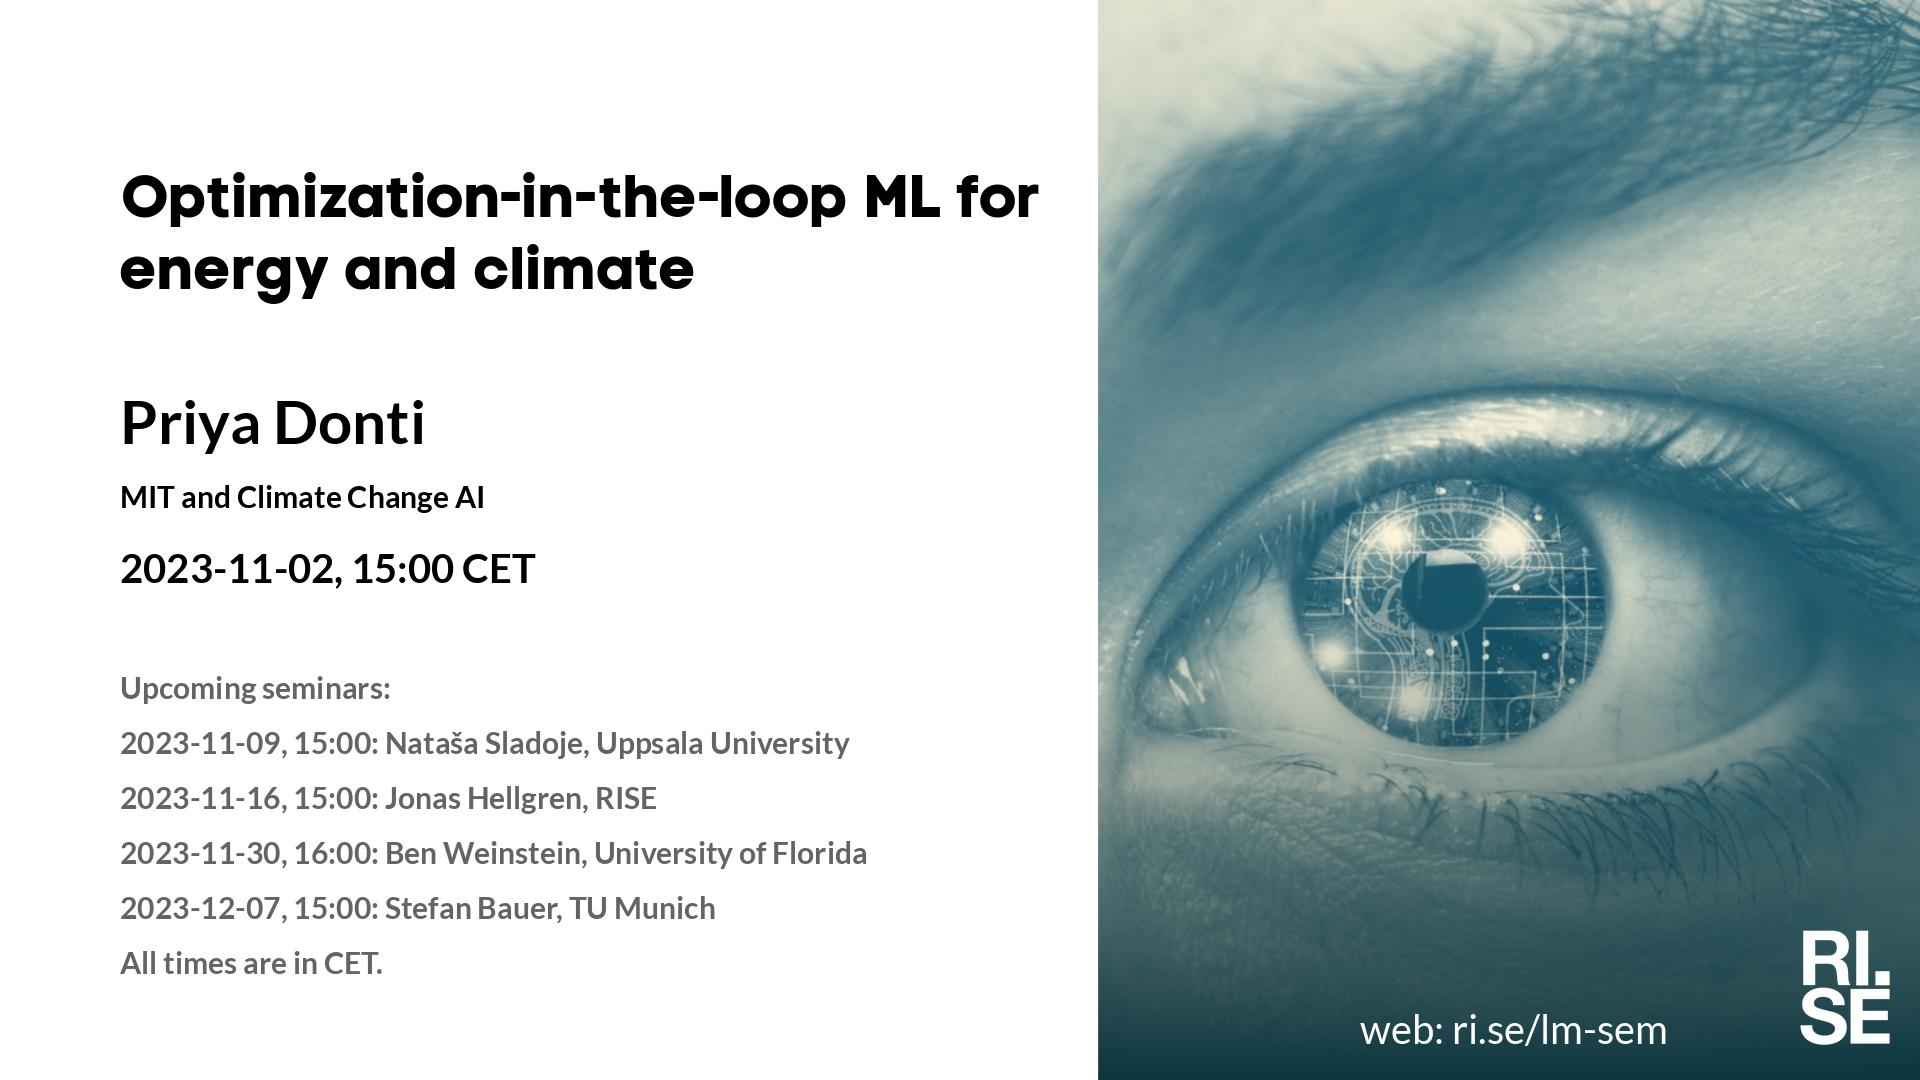
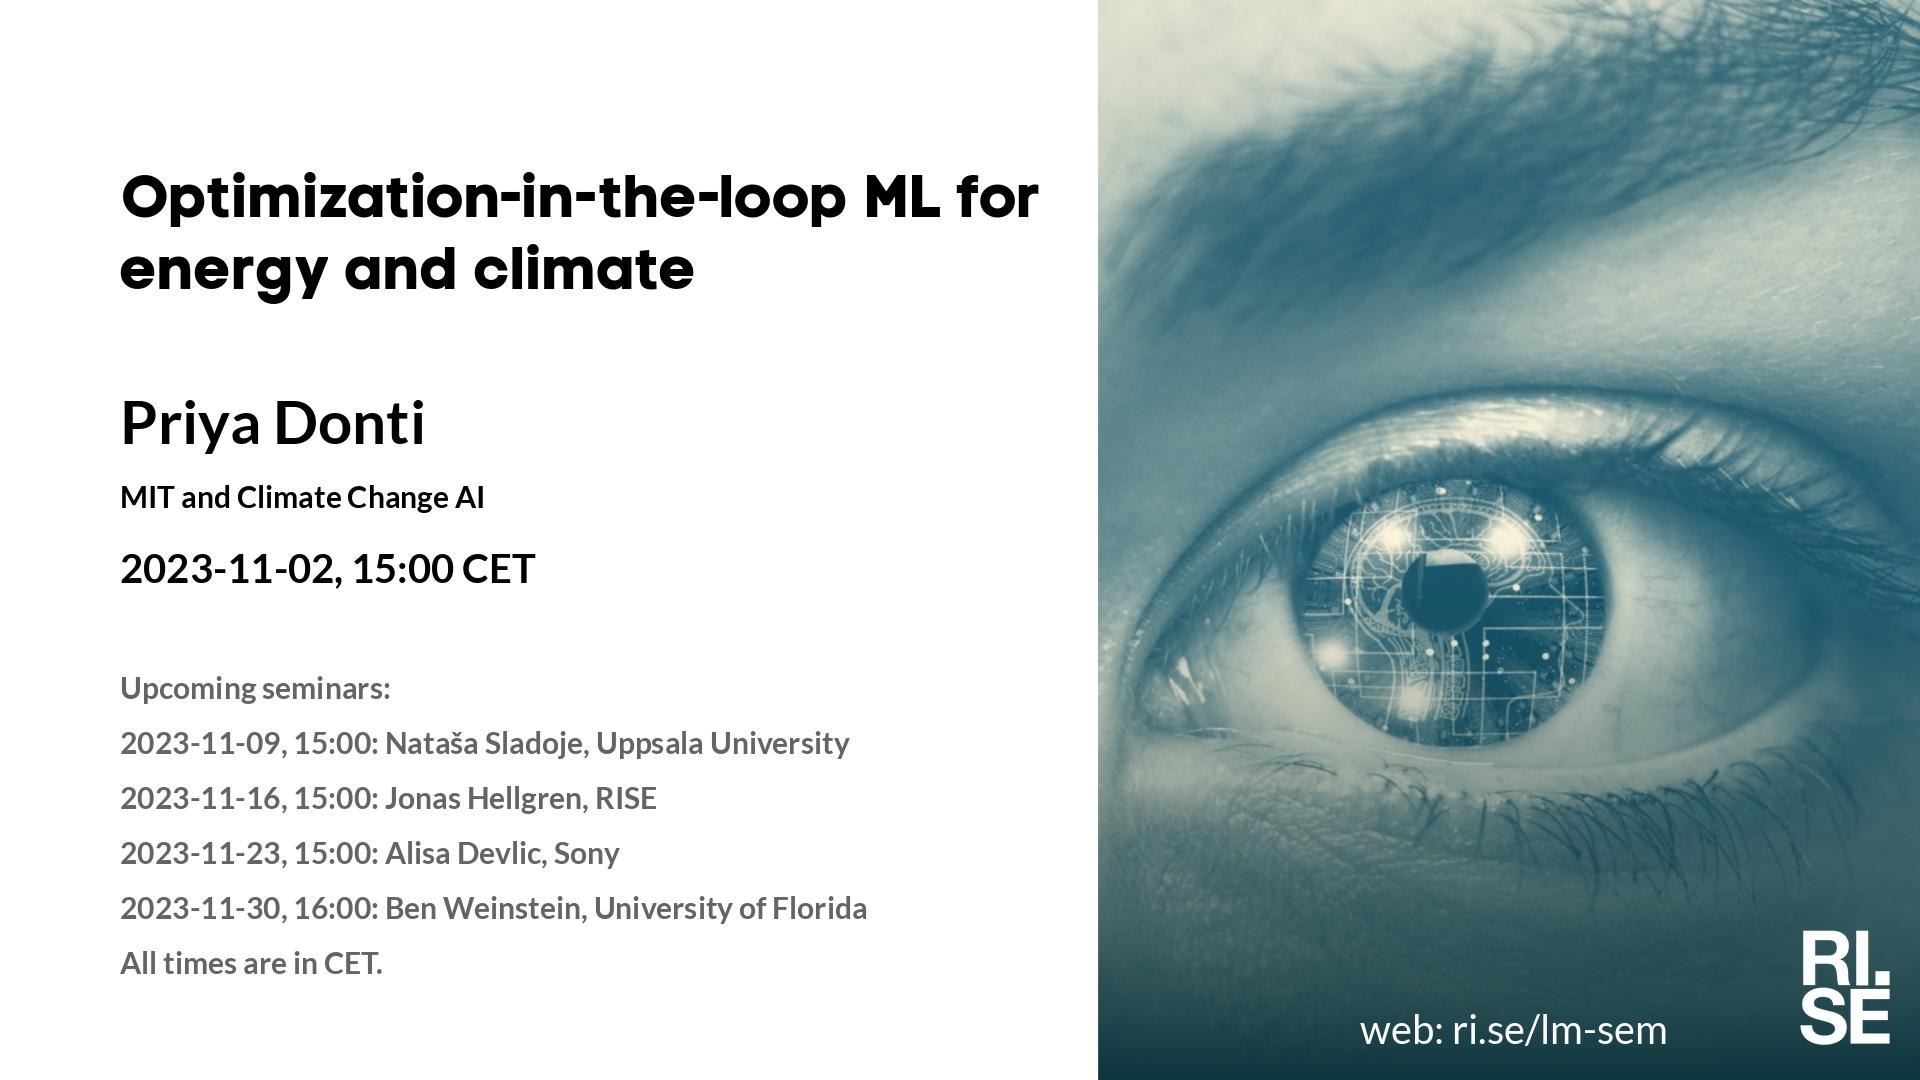
Updated plan on web site.

Changed region(s): [[0.1875, 0.7639, 0.4688, 0.8556], [0.125, 0.825, 0.1562, 0.8556]]

diff --git a/lm/index.md b/lm/index.md
@@ -5,7 +5,7 @@ metatags: "<meta name=\"robots\" content=\"noindex,nofollow\" />"
 <style type="text/css" scoped>
 td, th {border: 1px solid #ccc; padding: 0.6em;}
 table {border-collapse: collapse;}
-</style># Learning Machines Plan 2023-11-09
+</style># Learning Machines Plan 2023-11-10
 
 | date | speaker                                   | photo | shareable | meeting backdrop | youtube thumbnail | <a title="Speaker, Title, Abstract, Bio, Photo. Strikethrough means we don't have it yet.">comment</a>        |
 | ---- | ----------------------------------------- | ----- | ----- | ----- | ----- | -------------- |
@@ -13,7 +13,7 @@ table {border-collapse: collapse;}
 |  2023-11-02  |  [Priya Donti, MIT and Climate Change AI](2023-11-02.md)  |  [photo](photo-priya-donti.jpg)  |  [social media ](social-media-priya-donti.jpg)  |  [meeting backdrop ](meeting-backdrop-priya-donti.jpg)  |  [youtube thumbnail ](youtube-thumbnail-priya-donti.jpg)  |  STABP  |
 |  2023-11-09  |  [Nataša Sladoje, Uppsala University](2023-11-09.md)  |  [photo](photo-natasa-sladoje.jpg)  |  [social media ](social-media-natasa-sladoje.jpg)  |  [meeting backdrop ](meeting-backdrop-natasa-sladoje.jpg)  |  [youtube thumbnail ](youtube-thumbnail-natasa-sladoje.jpg)  |  STABP  |
 |  2023-11-16  |  [Jonas Hellgren, RISE](2023-11-16.md)  |  [photo](photo-jonas-hellgren.jpg)  |  [social media ](social-media-jonas-hellgren.jpg)  |  [meeting backdrop ](meeting-backdrop-jonas-hellgren.jpg)  |  [youtube thumbnail ](youtube-thumbnail-jonas-hellgren.jpg)  |  STABP  |
-| <span style="color:red"> 2023-11-23 </span> | <span style="color:red"> Thanksgiving </span> | <span style="color:red">  </span> | <span style="color:red">  </span> | <span style="color:red">  </span> | <span style="color:red">  </span> | <span style="color:red"> CANCELLED </span> |
+|  2023-11-23  |  [Alisa Devlic, Sony](2023-11-23.md)  |    |  [social media ](social-media-alisa-devlic.jpg)  |  [meeting backdrop ](meeting-backdrop-alisa-devlic.jpg)  |  [youtube thumbnail ](youtube-thumbnail-alisa-devlic.jpg)  |  S~~TABP~~  |
 |  2023-11-30  |  [Ben Weinstein, University of Florida](2023-11-30.md)  |  [photo](photo-ben-weinstein.jpg)  |  [social media ](social-media-ben-weinstein.jpg)  |  [meeting backdrop ](meeting-backdrop-ben-weinstein.jpg)  |  [youtube thumbnail ](youtube-thumbnail-ben-weinstein.jpg)  |  STABP  |
 |  2023-12-07  |  [Stefan Bauer, TU Munich](2023-12-07.md)  |  [photo](photo-stefan-bauer.jpg)  |  [social media ](social-media-stefan-bauer.jpg)  |  [meeting backdrop ](meeting-backdrop-stefan-bauer.jpg)  |  [youtube thumbnail ](youtube-thumbnail-stefan-bauer.jpg)  |  STABP  |
 |  2023-12-14  |  [Fredrik Gustafsson, Karolinska Institutet](2023-12-14.md)  |  [photo](photo-fredrik-gustafsson.jpg)  |  [social media ](social-media-fredrik-gustafsson.jpg)  |  [meeting backdrop ](meeting-backdrop-fredrik-gustafsson.jpg)  |  [youtube thumbnail ](youtube-thumbnail-fredrik-gustafsson.jpg)  |  STABP  |

diff --git a/lm/2023-11-23.md b/lm/2023-11-23.md
@@ -1,0 +1,32 @@
+---
+layout: default
+metatags: "<meta name=\"robots\" content=\"noindex,nofollow\" />"
+---
+Welcome to this week's Learning Machines seminar.
+
+**Title:** N/A
+
+**Speaker:** Alisa Devlic, Sony
+
+**Abstract:** N/A
+
+**About the speaker:** N/A
+
+**Location:** This is an online seminar. Connect using Zoom.
+
+**Date:** 2023-11-23 15:00
+
+**Zoom link:** [https://rise.zoom.us/j/208117140?pwd=eTFBWXNlRFNQTTlDZWNHeUVKc282QT09](https://rise.zoom.us/j/208117140?pwd=eTFBWXNlRFNQTTlDZWNHeUVKc282QT09)
+
+**Upcoming seminars:**
+
+* 2023-11-30, 16:00: Ben Weinstein, University of Florida
+* 2023-12-07, 15:00: Stefan Bauer, TU Munich
+* 2023-12-14, 15:00: Fredrik Gustafsson, Karolinska Institutet
+* 2024-01-18, 15:00: Serge Belongie, University of Copenhagen
+* All times are in CET.
+
+More information and coming seminars: [https://ri.se/lm-sem](https://ri.se/lm-sem)
+
+-- The Learning Machines Team
+

diff --git a/lm/2023-11-16.md b/lm/2023-11-16.md
@@ -24,10 +24,10 @@ The following algorithms will be presented presented: Dynamic programming. Tempo
 
 **Upcoming seminars:**
 
+* 2023-11-23, 15:00: Alisa Devlic, Sony
 * 2023-11-30, 16:00: Ben Weinstein, University of Florida
 * 2023-12-07, 15:00: Stefan Bauer, TU Munich
 * 2023-12-14, 15:00: Fredrik Gustafsson, Karolinska Institutet
-* 2024-01-18, 15:00: Serge Belongie, University of Copenhagen
 * All times are in CET.
 
 More information and coming seminars: [https://ri.se/lm-sem](https://ri.se/lm-sem)

diff --git a/lm/2023-11-09.md b/lm/2023-11-09.md
@@ -25,9 +25,9 @@ Nataša obtained her PhD degree in computerized image processing at the Centre f
 **Upcoming seminars:**
 
 * 2023-11-16, 15:00: Jonas Hellgren, RISE
+* 2023-11-23, 15:00: Alisa Devlic, Sony
 * 2023-11-30, 16:00: Ben Weinstein, University of Florida
 * 2023-12-07, 15:00: Stefan Bauer, TU Munich
-* 2023-12-14, 15:00: Fredrik Gustafsson, Karolinska Institutet
 * All times are in CET.
 
 More information and coming seminars: [https://ri.se/lm-sem](https://ri.se/lm-sem)

diff --git a/lm/2023-11-02.md b/lm/2023-11-02.md
@@ -22,8 +22,8 @@ Welcome to this week's Learning Machines seminar.
 
 * 2023-11-09, 15:00: Nataša Sladoje, Uppsala University
 * 2023-11-16, 15:00: Jonas Hellgren, RISE
+* 2023-11-23, 15:00: Alisa Devlic, Sony
 * 2023-11-30, 16:00: Ben Weinstein, University of Florida
-* 2023-12-07, 15:00: Stefan Bauer, TU Munich
 * All times are in CET.
 
 More information and coming seminars: [https://ri.se/lm-sem](https://ri.se/lm-sem)
